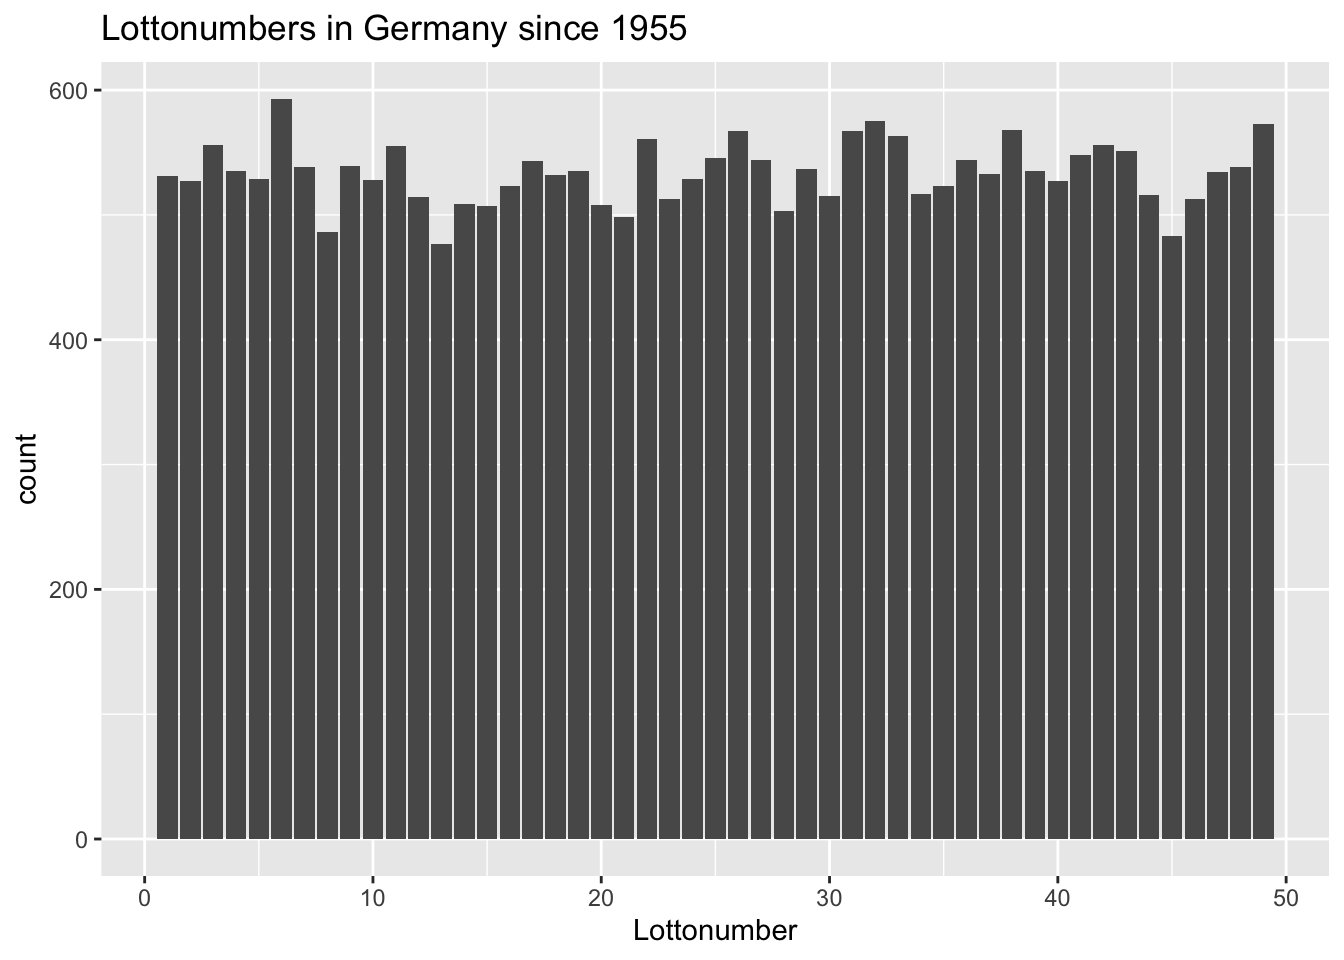
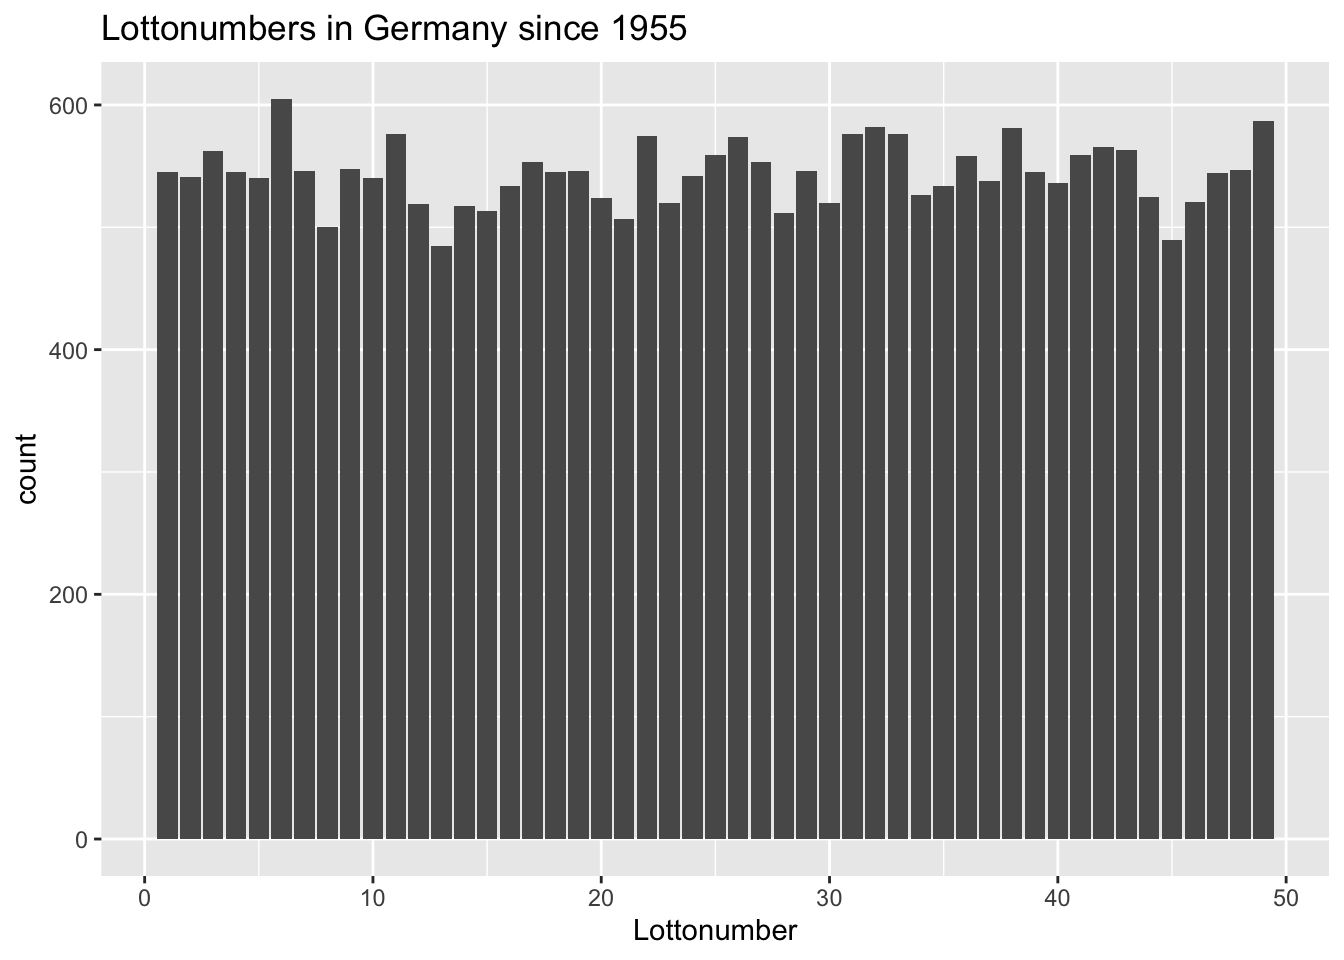
update readme

diff --git a/README.md b/README.md
@@ -1,7 +1,7 @@
 
 <!-- README.md is generated from README.Rmd. Please edit that file -->
 
-# API for the lotto numbers of the german lottery (1955-2020)
+# API for the lotto numbers of the german lottery (1955-2019)
 
 [![Project Status: Active – The project has reached a stable, usable
 state and is being actively
@@ -37,7 +37,7 @@ library(lubridate)
 
 data <- fromJSON("https://johannesfriedrich.github.io/LottoNumberArchive/Lottonumbers_tidy_complete.json")
 
-lottonumbers_count <- data$data %>% 
+lottonumbers_count <- data %>% 
   filter(variable == "Lottozahl") %>% 
   group_by(value) %>% 
   summarise(count = n())
@@ -48,15 +48,16 @@ lottonumbers_count %>%
   arrange(desc(count)) %>% 
   top_n(5)
 ## Selecting by count
-## # A tibble: 6 x 2
+## # A tibble: 7 x 2
 ##   value count
 ##   <int> <int>
-## 1     6   593
-## 2    32   575
-## 3    49   573
-## 4    38   568
-## 5    26   567
-## 6    31   567
+## 1     6   605
+## 2    49   587
+## 3    32   582
+## 4    38   581
+## 5    11   576
+## 6    31   576
+## 7    33   576
 ```
 
 Now we want to summarise all numbers from 1-49 and their appearance.
@@ -76,7 +77,7 @@ introduced. Every Wednesday and Saturday the number chosen. The
 following graph shows the distribution of the Zusatzzahl.
 
 ``` r
-superzahl <- data$data %>% 
+superzahl <- data %>% 
   filter(variable == "Superzahl") %>% 
   mutate(date = dmy(date),
          Day = weekdays(date),
@@ -84,10 +85,10 @@ superzahl <- data$data %>%
   filter(year >= 2001) %>% 
   group_by(value, Day) %>% 
   summarise(count = n())
+## `summarise()` regrouping output by 'value' (override with `.groups` argument)
 ```
 
 ``` r
-
 ggplot(superzahl, aes(value, count, fill = Day)) +
   geom_bar(stat = "identity", position = "dodge") +
   scale_x_continuous(breaks = c(0:9)) +
@@ -99,7 +100,7 @@ ggplot(superzahl, aes(value, count, fill = Day)) +
 What were the numbers most chosen in 2019?
 
 ``` r
-data$data %>% 
+data %>% 
   filter(variable == "Lottozahl") %>% 
   mutate(date = dmy(date),
          year = year(date)) %>% 
@@ -108,6 +109,7 @@ data$data %>%
   summarise(count = n()) %>% 
    arrange(desc(count)) %>% 
   top_n(5)
+## `summarise()` ungrouping output (override with `.groups` argument)
 ## Selecting by count
 ## # A tibble: 7 x 2
 ##   value count
@@ -130,16 +132,16 @@ executed.
 ``` python
 import pandas as pd
 
-data = pd.read_json("https://johannesfriedrich.github.io/LottoNumberArchive/Lottonumbers_tidy_complete.json",orient='split')
+data = pd.read_json("https://johannesfriedrich.github.io/LottoNumberArchive/Lottonumbers_tidy_complete.json")
 
 res = data[data.variable == "Lottozahl"].groupby("value")["value"].count().sort_values(ascending = False)
 
 print(res.head(5))
 ## value
-## 6     593
-## 32    575
-## 49    573
-## 38    568
-## 26    567
+## 6     605
+## 49    587
+## 32    582
+## 38    581
+## 33    576
 ## Name: value, dtype: int64
 ```
